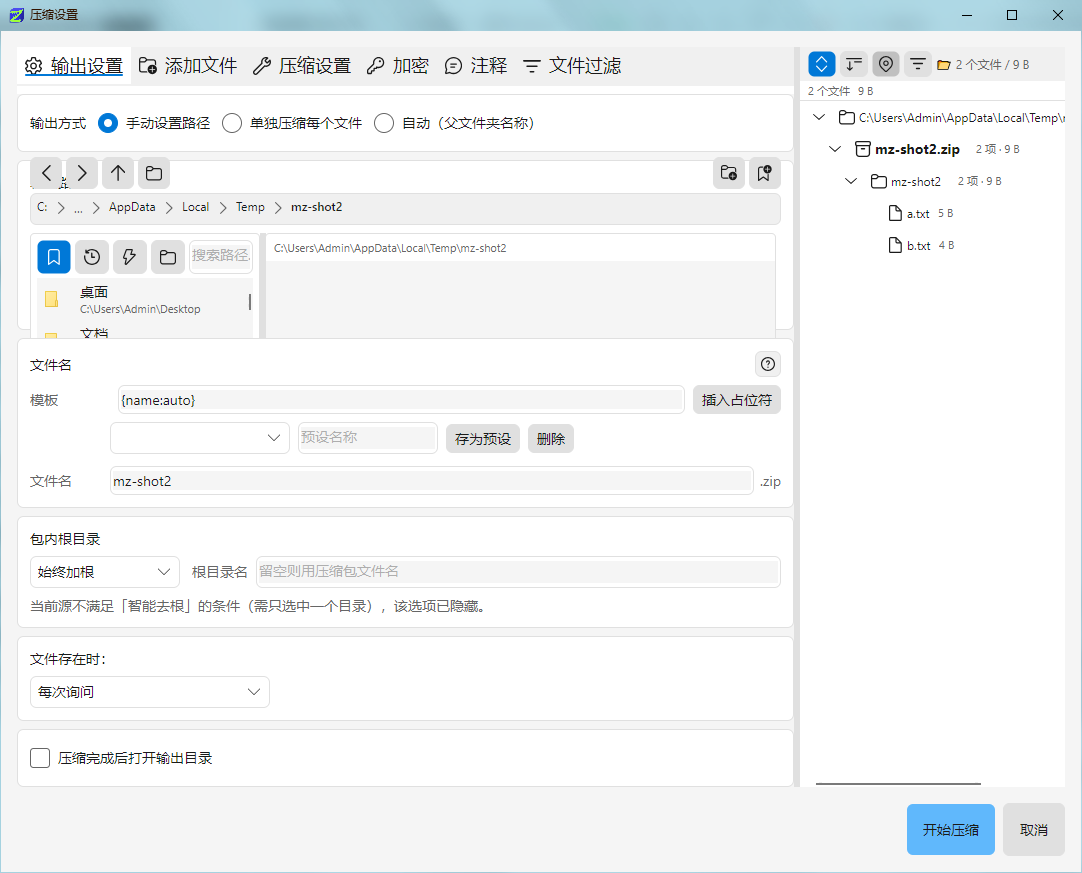
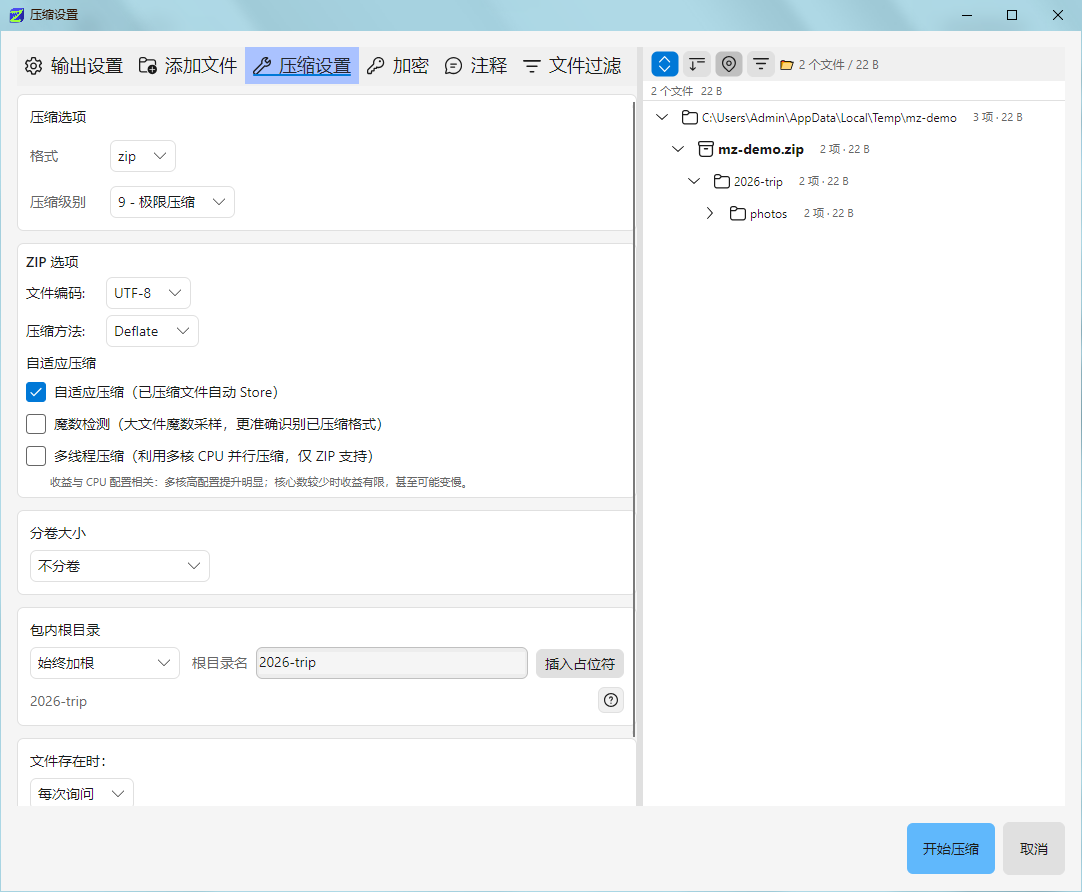
refactor(avalonia): 「包内根目录」卡搬进「压缩设置」页
与 11-17 搬冲突策略 / 完成后行为同一个理由：输出设置页的目录选择器是
唯一能吐还高度的控件，每多一张常驻卡就少给它一份高度。搬完后输出页只剩
三张卡（输出方式 / 目录选择器 / 文件名），「怎么产出」的四项全在「压缩
设置」页 —— 那是 ScrollViewer，窗口再矮也只是滚动。

- CompressSettingsWindow.axaml：整张 Border 从输出页 Grid.Row=3 搬到
  压缩设置页的分卷卡与冲突策略卡之间；输出页删掉对应 RowDefinition，
  行数 4 → 3。代码里没有命令式引用（只有 XAML 内的 #WrapRootBox），
  所以 CS 零改动。
- CompressSettingsTabLayoutTests：绊线从两项扩到三项（新增 WrapRootBox），
  expectedRowCount 改回 3。
- RELEASE_NOTES：v0.5.8 与 v0.5.7 的「输出设置页不再拥挤」条目同步，
  两张配图重拍（CompressRootFolder / RootNameTemplate）以反映新位置。

diff --git a/tests/MantisZip.UI.Avalonia.Tests/CompressSettingsTabLayoutTests.cs b/tests/MantisZip.UI.Avalonia.Tests/CompressSettingsTabLayoutTests.cs
@@ -4,13 +4,14 @@
 // 背景（2026-11-17）：用户反馈「输出设置页内容太多太挤」——那页的第 2 行是弹性行
 // （内嵌目录选择器），四张 Auto 卡把高度吃满后选择器被压到几十像素。于是把
 // 「文件冲突策略」与「完成后打开输出目录」搬进「压缩设置」页，并合成一张卡。
+// 2026-11-18 又把「包内根目录」照同样理由搬过去 —— 输出页只留「产物放在哪、叫什么」。
 //
 // 这类搬迁没有任何编译期保护：XAML 里放错页签照样 0 警告、照样能构建，
 // 只有用户点开对话框才发现。更危险的是「复制粘贴后忘了改 x:Name」——
 // 两个同名控件会让 FindControl 只找到第一个，事件接线指向错误的那个
 // （本次施工中真的发生过一次，构建依旧全绿）。所以这里钉两件事：
-//   ① 冲突下拉与「打开输出目录」在「压缩设置」页、不在「输出设置」页；
-//   ② 整个文件里 ConflictActionCombo 只出现一次。
+//   ① 冲突下拉 / 「打开输出目录」/ 根目录名在「压缩设置」页、不在「输出设置」页；
+//   ② 整个文件里这些 x:Name 只出现一次。
 // ============================================================================
 using System;
 using System.IO;
@@ -32,6 +33,9 @@ public class CompressSettingsTabLayoutTests
 
     /// <summary>「压缩完成后打开输出目录」勾选框的 x:Name（无头用例靠它 FindControl）。</summary>
     private const string OpenFolderCheckName = "OpenFolderAfterCheck";
+
+    /// <summary>根目录名输入框的 x:Name（<c>PlaceholderInsertButton.TargetTextBox</c> 靠它定位）。</summary>
+    private const string WrapRootBoxName = "WrapRootBox";
 
     /// <summary>仓库根定位：从测试程序集目录向上找到含 src 目录的一层（同 LocalizedStringsWiringTests）。</summary>
     private static string GetRepoRoot()
@@ -107,6 +111,9 @@ public class CompressSettingsTabLayoutTests
         Assert.True(
             compressTab.Contains(OpenFolderCheckName, StringComparison.Ordinal),
             $"「压缩设置」页缺少 {OpenFolderCheckName}：「压缩完成后打开输出目录」应在本页");
+        Assert.True(
+            compressTab.Contains(WrapRootBoxName, StringComparison.Ordinal),
+            $"「压缩设置」页缺少 {WrapRootBoxName}：包内根目录卡应在本页（2026-11-18 从输出设置页搬来）");
     }
 
     /// <summary>
@@ -125,6 +132,9 @@ public class CompressSettingsTabLayoutTests
         Assert.False(
             outputTab.Contains(OpenFolderCheckName, StringComparison.Ordinal),
             $"「输出设置」页又出现了 {OpenFolderCheckName}，应从本页移除");
+        Assert.False(
+            outputTab.Contains(WrapRootBoxName, StringComparison.Ordinal),
+            $"「输出设置」页又出现了 {WrapRootBoxName}：包内根目录卡应只在「压缩设置」页");
     }
 
     /// <summary>
@@ -137,7 +147,7 @@ public class CompressSettingsTabLayoutTests
     public void MovedControls_AreUniqueInWholeXaml()
     {
         var xaml = ReadXaml();
-        foreach (var name in new[] { ConflictComboName, OpenFolderCheckName })
+        foreach (var name in new[] { ConflictComboName, OpenFolderCheckName, WrapRootBoxName })
         {
             var occurrences = Regex.Matches(xaml, $"x:Name=\"{Regex.Escape(name)}\"").Count;
             Assert.True(
@@ -147,12 +157,11 @@ public class CompressSettingsTabLayoutTests
     }
 
     /// <summary>
-    /// 「输出设置」页的 Grid 行数（输出方式 / 弹性目录行 / 文件名卡 / 包内根目录）。
+    /// 「输出设置」页的 Grid 行数（输出方式 / 弹性目录行 / 文件名卡）。
     /// 行数与 <c>Grid.Row</c> 最大值必须对得上，否则多出来的那张卡会跟别人叠在同一行。
     /// <para>
-    /// 2026-11-18 合并 beta 时把 <c>expectedRowCount</c> 从 3 改成 4：beta 那侧删掉了冲突策略与
-    /// 「完成后行为」两张卡（搬去「压缩设置」页），而 alpha 这侧同期新增了「包内根目录」卡，
-    /// 两边合并后的真实布局是 4 行 —— 断言必须跟着**合并结果**走，而不是任一侧的原始期望。
+    /// 2026-11-18 把 <c>expectedRowCount</c> 从 4 改回 3：合并 beta 后本是 4 行（多了「包内根目录」），
+    /// 同日又把那张卡搬去「压缩设置」页，输出页回到「产物放在哪、叫什么」三张卡。
     /// </para>
     /// </summary>
     [Fact]
@@ -161,12 +170,12 @@ public class CompressSettingsTabLayoutTests
         var outputTab = SplitTabsByKey(ReadXaml())["Compress_TabOutput"];
 
         // 与 XAML 里 <Grid.RowDefinitions> 的注释保持一一对应：
-        // 0 输出方式 / 1 弹性目录行 / 2 文件名卡 / 3 包内根目录。
-        const int expectedRowCount = 4;
+        // 0 输出方式 / 1 弹性目录行 / 2 文件名卡。
+        const int expectedRowCount = 3;
         var rowDefs = Regex.Matches(outputTab, "<RowDefinition\\s+Height=").Count;
         Assert.True(
             rowDefs == expectedRowCount,
-            $"「输出设置」页应有 {expectedRowCount} 条 RowDefinition（实际 {rowDefs} 条）：输出方式 / 弹性目录行 / 文件名卡 / 包内根目录");
+            $"「输出设置」页应有 {expectedRowCount} 条 RowDefinition（实际 {rowDefs} 条）：输出方式 / 弹性目录行 / 文件名卡");
 
         var rowIndexes = Regex.Matches(outputTab, "Grid\\.Row=\"([0-9]+)\"")
             .Select(m => int.Parse(m.Groups[1].Value))

diff --git a/RELEASE_NOTES.md b/RELEASE_NOTES.md
@@ -12,7 +12,7 @@ MantisZip-0.5.8-Setup-WebSetup.exe requires internet during installation. Mantis
 
 - **压缩与解压都能指定「包内根目录」了** — 压缩设置窗新增「包内根目录」下拉：保持原样 / 智能去根 / 智能加根 / 始终加根；后两档还能填「根目录名」，留空则用压缩包文件名（与下拉同一行，省一行高度）。解压设置窗的「压缩包顶层目录」是同样的四档。右侧预览树显示的就是最终落进包里的结构，与实际输出共用同一套判定；某一档当前不适用时会直接从下拉里拿掉并附一行说明（只选了一个目录才有唯一根可去、分别压缩时不套根），不会留一个选了也不生效的开关。
 - **A root folder policy for both compression and extraction** — the compression window gains a "Folder inside archive" dropdown (Leave as is / Smart strip / Smart wrap / Always wrap); the last two also accept a custom root name that falls back to the archive name, sitting on the same row as the dropdown. The extraction window offers the same four choices as "Top folder of the archive". The preview tree already shows the structure that will end up in the archive, using the same rules as the real output, and a choice that does not apply right now is removed from the list with a note (only a single selected folder has a root to strip, separate compression adds no root), so there is never a switch that silently does nothing.
-- ![压缩设置窗「包内根目录」：选「始终加根」时同一行出现「根目录名」输入框，右侧预览树显示最终结构](docs/images/version/v0.5.8/CompressRootFolder.png)
+- ![压缩设置窗「压缩设置」页的「包内根目录」卡：选「始终加根」时同一行出现「根目录名」输入框，右侧预览树显示最终结构](docs/images/version/v0.5.8/CompressRootFolder.png)
 - ![解压设置窗「压缩包顶层目录」：四档与压缩端一致，右侧预览树显示解压后的层级](docs/images/version/v0.5.8/ExtractRootFolder.png)
 - **「智能解压」可以选择加根还是去根了** — 设置 → 解压 新增「智能解压」卡片，两档：「智能加根」（默认）与以前的行为逐型一致（单根包落在包自带的那层、散装包补一层以包名命名的目录），「智能去根」则去掉包内唯一的顶层目录（散装与多根包本来就没有唯一根，因此原地平铺、不做改动）。工具栏、右键菜单与双击关联里的「智能解压」共用这一项设置。
 - **Smart extract can add or strip the top folder** — Settings → Extraction gains a "Smart extract" card with two choices: the default "smart-add a root" behaves exactly as before for every archive layout (a single-root archive keeps its own top folder, a loose archive gains a folder named after the archive), while "smart-remove the single root" drops the lone top folder — loose and multi-root archives have no single root, so their files simply land where they are. The toolbar button, the context menu and the double-click association all follow this setting.
@@ -20,7 +20,7 @@ MantisZip-0.5.8-Setup-WebSetup.exe requires internet during installation. Mantis
 - **The extraction window now defaults to the archive's own folder** — opening "extract settings" pre-fills the folder the archive sits in rather than "parent\archive-name", with the archive-name level now handled by the top-folder setting. Two visible differences: a single-root archive no longer nests two identically named folders (the old "name\inner-root\" becomes "inner-root\"), and a loose archive extracted into a chosen folder gains one folder named after the archive. Selecting "Leave as is" for the top folder restores the previous layout exactly.
 - **「根目录名」也能用占位符了** — 压缩设置窗「包内根目录」的根目录名与设置 → 压缩的「默认根目录名」都支持 5 个占位符：`{name}`（源文件或目录的主名；多选时取公共父目录名）、`{parent}`（源的上级目录名）、`{date}`（日期）、`{datetime}`（日期时间）、`{archive}`（压缩包主名）。输入框右侧的「插入占位符」会列出这 5 项，输入框下方的示例行实时显示这一批会用的根名；填了不认识的占位符或路径分隔符时示例行转红，点「开始压缩」会被拦下并说明原因。留空或填普通文字时行为与以前完全一致（`a:b` 这类仍按老规则净化成 `a_b`，不会突然报错）。
 - **The root folder name now accepts placeholders** — the root folder name in the compression window's "Folder inside archive" card and the "Default root folder name" under Settings → Compression both support five placeholders: `{name}` (the source file or folder name, or the shared parent folder name when several items are selected), `{parent}` (the source's parent folder name), `{date}`, `{datetime}`, and `{archive}` (the archive's own name). The "Insert placeholder" button beside the box lists exactly those five, and the example line under the box shows the root name this batch will use. An unknown placeholder or a path separator turns that line red and blocks "Start" with an explanation. Leaving it empty or typing plain text keeps the previous behavior byte for byte (something like `a:b` is still sanitized to `a_b` rather than rejected).
-- ![压缩设置窗「包内根目录」：根目录名填 `{name}_{date}`，示例行显示本批会用的根名 `7zip_2026-11-18`，右侧预览树根节点同值](docs/images/version/v0.5.8/RootNameTemplate.png)
+- ![压缩设置窗「压缩设置」页的「包内根目录」卡：根目录名填 `{name}_{date}`，示例行显示本批会用的根名 `photos_2026-11-18`，右侧预览树根节点同值](docs/images/version/v0.5.8/RootNameTemplate.png)
 
 **修复 / Fixes**
 
@@ -62,8 +62,8 @@ MantisZip-0.5.7-Setup-WebSetup.exe requires internet during installation. Mantis
 
 - **压缩窗口的「输出方式」从三个选项简化成一个开关** — 原来的「手动 / 分别 / 合并」三态里，「合并（按公共父目录名）」的命名效果已被文件名模板的 `{name:auto}` 覆盖，两条路算出的包名一模一样，于是只保留一个「每个文件/文件夹各自成一个压缩包」开关：不勾选压成一个包，勾选后每个源各自出包。跨盘符的多选源回到单包时不再弹单独的提示，输出目录留空由用户自己选。
 - **The output mode in the compression window is now a single switch** — of the previous three-way choice (manual / separate / combined-with-parent-folder-name), the combined option only re-derived a name that the file name template's `{name:auto}` produces anyway, so it is gone; a single "each file/folder gets its own archive" checkbox now covers both cases (off = one archive, on = one archive per source). Multi-source selections that span drives simply leave the output folder empty for you to pick, with no separate notice.
-- **压缩窗口「输出设置」页不再拥挤** — 该页的目录选择器是唯一占剩余高度的控件，四张常驻卡把窗口吃满后它只剩几十像素。现在把「文件冲突策略」和「压缩完成后打开输出目录」移到「压缩设置」页合成一张卡，两项的行为与取值位置都没变（进度窗口里仍可临时改），输出页只留「产物放在哪、叫什么」并把高度还给目录列表。
-- **The output tab of the compression window is no longer cramped** — the folder picker on that tab was the only control that could give up height, so four fixed cards could squeeze it down to a few dozen pixels. The conflict policy and "open the output folder when done" now live together on the compression tab instead; both keep the same values and behaviour (still adjustable mid-run from the progress window), and the output tab is left with just "where the archive goes and what it is called".
+- **压缩窗口「输出设置」页不再拥挤** — 该页的目录选择器是唯一占剩余高度的控件，几张常驻卡把窗口吃满后它只剩几十像素。现在把「文件冲突策略」和「压缩完成后打开输出目录」移到「压缩设置」页合成一张卡，「包内根目录」也整卡搬过去（排在分卷与冲突策略之间），三项的行为与取值位置都没变（冲突策略在进度窗口里仍可临时改），输出页只留「产物放在哪、叫什么」三张卡并把高度还给目录列表。
+- **The output tab of the compression window is no longer cramped** — the folder picker on that tab was the only control that could give up height, so a stack of fixed cards could squeeze it down to a few dozen pixels. The conflict policy and "open the output folder when done" now live together on the compression tab, and the whole "Folder inside archive" card moved there too (between the split-volume and conflict cards); all three keep the same values and behaviour (the conflict policy is still adjustable mid-run from the progress window), leaving the output tab with just "where the archive goes and what it is called".
 - **动态右键菜单改为实验开关，默认关闭** — 默认使用静态级联菜单，不依赖资源管理器加载 .NET 组件。想用带文件名标签的动态菜单可在「设置 → 右键菜单」打开，失败会自动回退；同一页的「安装 / 应用」也不再重启资源管理器。
 - **The dynamic context menu is now an experimental opt-in, off by default** — the default is the static cascade menu, which doesn't rely on Explorer loading a .NET component. The dynamic menu with file-name labels can be enabled in Settings → Context menu and falls back automatically if it fails; "Install / Apply" on that page no longer restarts Explorer either.
 

diff --git a/docs/progress-avalonia-detail.md b/docs/progress-avalonia-detail.md
@@ -6,6 +6,15 @@
 
 ## MantisZip.UI.Avalonia（主力版）
 
+**2026-11-18** — 交互：「包内根目录」卡也搬到「压缩设置」页
+
+- **用户指令**：「『包内根目录』也移动到『压缩设置』页里」。
+- **动机**：与 11-17 搬冲突策略 / 完成后行为同一个理由 —— 输出设置页的第 2 行是弹性行（内嵌目录选择器），每多一张 Auto 卡就少给它一份高度。搬完后输出页只剩「产物放在哪、叫什么」三张卡（输出方式 / 目录选择器 / 文件名），「怎么产出」的四项（格式与级别 / 分卷 / 包内根目录 / 冲突与完成后行为）全在「压缩设置」页，该页是 ScrollViewer，窗口再矮也只是滚动。
+- **改动（只碰 XAML 与测试，VM 零改动）**：`src/MantisZip.UI.Avalonia/Dialogs/CompressSettingsWindow.axaml` 把「包内根目录」整张 `Border`（含四态下拉 / 根名输入框 / 插入占位符按钮 / 示例与错误行 / 裁剪说明灰字）从输出页 `Grid.Row="3"` 整块搬到压缩设置页的分卷卡与冲突策略卡之间；输出页删掉为此准备的 `<RowDefinition Height="Auto" />`，行数 4 → 3；两张卡的注释同步改成「本页只剩三张卡 / 本卡于 2026-11-18 从输出设置页搬来」。代码里没有任何 `FindControl("WrapRootBox")` 之类的命令式引用（只有 `PlaceholderInsertButton.TargetTextBox="{Binding #WrapRootBox}"` 这条 XAML 内引用），所以搬迁不需要改 CS。
+- **回归绊线同步扩到三项**：`tests/MantisZip.UI.Avalonia.Tests/CompressSettingsTabLayoutTests.cs` 新增 `WrapRootBoxName = "WrapRootBox"` 常量，`ConflictAndOpenFolder_LiveInCompressTab` 与 `OutputTab_NoLongerHostsConflictOrOpenFolder` 各加一条断言，`MovedControls_AreUniqueInWholeXaml` 的检查数组从 2 个名字扩到 3 个；`OutputTab_GridRowsMatchHighestRowIndex` 的 `expectedRowCount` 从 4 改回 **3**（合并 beta 当天先是 3→4，因为两卡去一卡来，现在再去一卡）。
+- **验证**：`avalonia -c Release --no-incremental` 35.9s 0 警告；`CompressSettingsTabLayoutTests` + `CompressSettingsViewModelRootNameTests` 共 17 例全绿；真机 1082×892 与 760px 窄窗两档都核对过 —— 窄窗下「始终加根 ▾ │ 根目录名 [留空则用压缩包文件名] [插入占位符]」整行仍读得通、示例行与帮助按钮都在、预览树根同步变成 `Temp`。
+- **踩坑**：`$env:TEMP\mz-click-title.ps1` 每次点击前会先点一下空白处激活窗口，这一击会把**已展开的 ComboBox 下拉菜单收起来**，导致紧接着的选项点击落到下层控件上（本轮因此误勾了「压缩完成后打开输出目录」两次、根目录模式还停在「保持原样」）。改用 `$env:TEMP\mz-click-nofocus.ps1`（只 `SetForegroundWindow` + 直接点，不做激活预点击）后一次成功。另外窗口滚动后控件 y 坐标会变，每次点击前应重新截一张定位，不要沿用上一张的坐标。
+
 **2026-11-18** — 合并 beta 到 alpha（issue #89 预览修复 + 输出设置页瘦身）
 
 - **用户指令**：「beta分支又做了一些修正，合并到alpha分支来吧。」

diff --git a/docs/PROGRESS.md b/docs/PROGRESS.md
@@ -27,6 +27,8 @@
 
 #### 2026-11
 
+- **11-18** — **「包内根目录」卡搬进「压缩设置」页**：与 11-17 搬冲突策略 / 完成后行为同一理由 —— 输出页只剩「产物放在哪、叫什么」三张卡（输出方式 / 目录选择器 / 文件名），「怎么产出」的四项集中在「压缩设置」页（ScrollViewer，窗口再矮只滚动）。只改 XAML 与测试，VM 零改动；`CompressSettingsTabLayoutTests` 的绊线从两项扩到三项（新增 `WrapRootBox`），输出页行数断言 4 → 3。真机 1082×892 与 760px 窄窗两档核对通过。
+
 - **11-18** — **合并 beta 到 alpha（issue #89 预览修复 + 输出设置页瘦身）**：`beta` 侧 3 笔提交（`7054e97e` ICO 调色板帧 / 动画 WebP 链式增量解码、`529e41c2` 压缩设置窗输出页瘦身、`13b581ce` 发布说明）合入 `alpha`。7 处冲突的解法：①三份 json 保留 beta 的 `Preview_AnimationFrameLimited`（写回必须 UTF-8 BOM，HEAD 侧 blob 原本无 BOM）；②`CompressSettingsWindow.axaml` 输出页保留 alpha 的 4 行（beta 删的冲突策略/完成后行为两卡已在 beta 的「压缩设置」页，与本侧「包内根目录」卡不重复）；③`docs/PROGRESS.md` 与 ④`docs/progress-avalonia-detail.md` 两侧全留、按「同日从晚到早」重排。合并后修 3 处：`CompressSettingsTabLayoutTests` 行数断言 3→4（beta 删两卡 + alpha 加一卡 = 4）、`CompressSettingsViewModelRootNameTests.ExampleText_EmptyInputFallsBackToArchiveName` 的期望值（默认包名 = 落点目录名，不是源文件名）、删掉 `RELEASE_NOTES.md` 里指向不存在文件 `v0.5.7/Issue89Preview.png` 的图片引用。验证：四目标构建 0 警告、`tests` 13.0s、`ui-tests` 964 例全绿、`i18n` 1530 key、`check` 10 守卫全绿。
 
 - **11-18** — **根目录名模板（v0.5.8 第三项）**：压缩设置窗「包内根目录」的根名输入框与设置页「默认根目录名」支持 5 个占位符（`{name}` / `{parent}` / `{date}` / `{datetime}` / `{archive}`）——`{name}` 单源取源主名、多源取公共父目录名，`{archive}` 取最终压缩包主名。词法与结果校验从 `FileNameTemplate` 抽成共用的 `TemplateLexing`（两套模板共用转义 / 未闭合 / 长度 / 保留设备名规则，各写一份必然漂移）；`ArchiveRootPolicy.ResolveWrapName` 三分支保证「不含 `{` 的字面名走旧路径、净化成 `_` 而不报错」逐字节不变；预览树与实际压缩共用同一解析。UI 侧加「插入占位符」按钮（`PlaceholderSet` 按目标框切换集合，根名框不出现 `{ext}` / `{seq}`）、示例行实时显示本批会用的根名、填错转红；`ValidateForExecution` 新增第 ⑦ 步在「开始压缩」前拦下非法模板。测试 90 例（`RootNameTemplateTests` 58 / `ArchiveRootPolicyWrapNameTests` 19 / `CompressSettingsViewModelRootNameTests` 13）；`core` 与 `avalonia --no-incremental` 0 警告、`tests` 17.7s、`ui-tests` 全绿、i18n 1529 key、check 10 条守卫。真机三场景（模板生效 `{name}_{date}` → 包内 `7zip_2026-11-18/…`、`{foo}` 被拦、插入菜单只列 5 项）全过。
